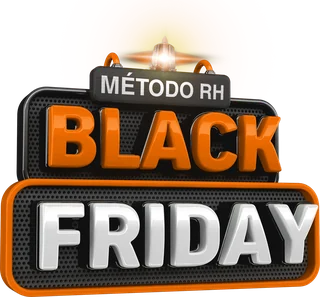
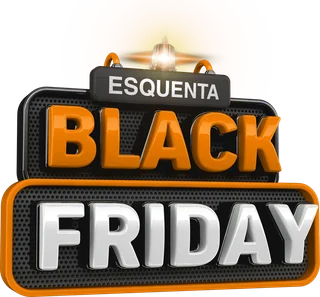
Esquenta Black Friday exclusiva para alunos
- "Black Friday" vira "Esquenta Black Friday" em toda a página; novo selo 3D
  Esquenta recolorido em laranja
- Etiqueta "Exclusiva para alunos" + ticket "Só hoje" (configurável em
  campaign.urgencyTag)
- "O que você leva" unificado com os 5 módulos e bônus; selo da divisa acima
- Selo "+20 materiais exclusivos" sobre as capas; "maior plataforma de RH
  do Brasil" e cursos futuros no bloco do vitalício
- Ajustes de posição do selo no hero (desktop e celular)

Changed region(s): [[0.3125, 0.2424, 0.7188, 0.3333]]

diff --git a/index.html b/index.html
@@ -3,8 +3,8 @@
 <head>
   <meta charset="utf-8">
   <meta name="viewport" content="width=device-width, initial-scale=1, viewport-fit=cover">
-  <title>Black Friday | Método RH Estratégico — Rosemeire Moreira</title>
-  <meta name="description" content="Black Friday com 50% OFF: acesso vitalício à plataforma completa da Solute RH, com o Método RH Estratégico, +50h de aulas, +120 ferramentas e certificado.">
+  <title>Esquenta Black Friday | Método RH Estratégico — Rosemeire Moreira</title>
+  <meta name="description" content="Esquenta Black Friday com 50% OFF: acesso vitalício à plataforma completa da Solute RH, com o Método RH Estratégico, +50h de aulas, +120 ferramentas e certificado.">
   <meta name="theme-color" content="#000000">
 
   <!-- TODO: quando a URL final estiver definida, descomente e ajuste
@@ -14,7 +14,7 @@
   <meta property="og:type" content="website">
   <meta property="og:locale" content="pt_BR">
   <meta property="og:site_name" content="Método RH Estratégico">
-  <meta property="og:title" content="Black Friday | Método RH Estratégico">
+  <meta property="og:title" content="Esquenta Black Friday exclusiva para alunos | Método RH Estratégico">
   <meta property="og:description" content="50% OFF e acesso vitalício à plataforma completa. Nunca mais compre outro curso de RH.">
   <!-- Para Facebook/WhatsApp, troque por URL absoluta após publicar. -->
   <meta property="og:image" content="img/og-image.jpg">
@@ -30,7 +30,7 @@
   <link rel="preconnect" href="https://fonts.googleapis.com">
   <link rel="preconnect" href="https://fonts.gstatic.com" crossorigin>
   <link rel="stylesheet" href="https://fonts.googleapis.com/css2?family=Inter:wght@400;500;600;700&display=swap">
-  <link rel="stylesheet" href="css/styles.css?v=20">
+  <link rel="stylesheet" href="css/styles.css?v=33">
 
   <script>document.documentElement.classList.add('js');</script>
 
@@ -48,7 +48,7 @@
 
   <script defer src="js/config.js?v=2"></script>
   <script defer src="js/tracking.js?v=2"></script>
-  <script defer src="js/offer.js?v=3"></script>
+  <script defer src="js/offer.js?v=4"></script>
   <script defer src="js/checkout.js?v=2"></script>
   <script defer src="js/ui.js?v=4"></script>
 </head>
@@ -76,7 +76,7 @@
      FAIXA DE CAMPANHA (com contador, quando houver data real)
      ======================================================================= -->
 <!-- Só aparece quando campaign.endsAt tiver uma data real (js/config.js) -->
-<div class="campaign-bar" role="region" aria-label="Tempo restante da Black Friday" data-campaign-bar hidden>
+<div class="campaign-bar" role="region" aria-label="Tempo restante da Esquenta Black Friday" data-campaign-bar hidden>
   <p class="countdown" data-countdown>
     <span class="countdown__label">Termina em</span>
     <span class="countdown__time" data-countdown-time></span>
@@ -131,15 +131,15 @@
   </div>
 
   <div class="hero__seal">
-    <img src="img/selo-black-560.webp?v=2" srcset="img/selo-black-320.webp?v=2 320w, img/selo-black-560.webp?v=2 560w, img/selo-black-880.webp?v=2 880w" sizes="(min-width: 960px) clamp(300px, 26vw, 480px), 140px" alt="Método RH Black Friday" width="560" height="519" fetchpriority="high">
+    <img src="img/selo-black-560.webp?v=3" srcset="img/selo-black-320.webp?v=3 320w, img/selo-black-560.webp?v=3 560w, img/selo-black-880.webp?v=3 880w" sizes="(min-width: 960px) clamp(300px, 26vw, 480px), 140px" alt="Esquenta Black Friday" width="560" height="519" fetchpriority="high">
   </div>
 
   <div class="container hero__inner">
-    <p class="hero__tags"><span class="hero__kicker">Black Friday</span><img class="tag-off-img" data-discount-img src="img/selo-50off-240.webp?v=2" srcset="img/selo-50off-240.webp?v=2 240w, img/selo-50off-480.webp?v=2 480w" sizes="160px" alt="50% OFF" width="240" height="129"></p>
+    <p class="hero__tags"><span class="hero__kicker">Exclusiva para alunos</span><span class="tag-today" data-urgency-tag>Só hoje</span></p>
     <h1 id="hero-title" class="hero__title">Saia do operacional e vire o RH que <span class="hl">participa das decisões</span></h1>
     <p class="hero__sub"><strong>Acesso vitalício à plataforma completa</strong> da Solute RH. Você nunca mais vai precisar comprar outro curso de RH.</p>
     <div class="hero__cta">
-      <a class="btn btn--cta btn--xl" href="#oferta" data-cta="hero">Quero aproveitar a Black <svg aria-hidden="true"><use href="#i-arrow"/></svg></a>
+      <a class="btn btn--cta btn--xl" href="#oferta" data-cta="hero">Quero aproveitar o Esquenta <svg aria-hidden="true"><use href="#i-arrow"/></svg></a>
       <p class="micro">+4.000 alunos · Garantia de 15 dias · Acesso vitalício</p>
     </div>
   </div>
@@ -147,7 +147,7 @@
 
 <div class="tapes" aria-hidden="true">
   <div class="tape tape--dark"><div class="tape__track" data-tape><span class="o">ACESSO VITALÍCIO</span> ✦ PLATAFORMA COMPLETA ✦ <span class="o">50% OFF</span> ✦ CURSOS FUTUROS INCLUSOS ✦ </div></div>
-  <div class="tape tape--green"><div class="tape__track tape__track--rev" data-tape>BLACK FRIDAY ✦ 50% OFF ✦ BLACK FRIDAY ✦ 50% OFF ✦ </div></div>
+  <div class="tape tape--green"><div class="tape__track tape__track--rev" data-tape>ESQUENTA BLACK FRIDAY ✦ 50% OFF ✦ ESQUENTA BLACK FRIDAY ✦ 50% OFF ✦ </div></div>
 </div>
 
 <!-- =======================================================================
@@ -179,18 +179,21 @@
 <section class="section lifetime" id="vitalicio" aria-labelledby="vit-title">
   <div class="container lifetime__inner">
     <div class="lifetime__copy">
-      <p class="hero__tags reveal"><span class="hero__kicker">Black Friday</span><img class="tag-off-img" data-discount-img src="img/selo-50off-240.webp?v=2" srcset="img/selo-50off-240.webp?v=2 240w, img/selo-50off-480.webp?v=2 480w" sizes="160px" alt="50% OFF" width="240" height="129"></p>
+      <p class="hero__tags reveal"><span class="hero__kicker">Exclusiva para alunos</span><span class="tag-today" data-urgency-tag>Só hoje</span></p>
       <h2 id="vit-title" class="title reveal">Nunca mais compre <span class="hl">um curso de RH</span></h2>
-      <p class="lifetime__lead reveal">Na Black, você leva a <strong>plataforma completa</strong> com <strong>acesso vitalício</strong>. Pague uma vez e tenha todos os cursos para sempre, <strong>inclusive os próximos que forem gravados</strong>.</p>
+      <p class="lifetime__lead reveal">No Esquenta, você leva a <strong>maior plataforma de RH do Brasil</strong> completa, com <strong>acesso vitalício</strong>. Pague uma vez e tenha todos os cursos para sempre, <strong>inclusive os próximos que forem gravados</strong>.</p>
       <ul class="lifetime__points">
         <li class="reveal"><span class="lifetime__icon">&infin;</span><div><strong>Acesso vitalício</strong><p>Sem mensalidade e sem prazo para terminar.</p></div></li>
         <li class="reveal"><span class="lifetime__icon"><svg aria-hidden="true"><use href="#i-play"/></svg></span><div><strong>Plataforma completa</strong><p>O Método RH Estratégico e todos os cursos da Solute RH.</p></div></li>
         <li class="reveal"><span class="lifetime__icon"><svg aria-hidden="true"><use href="#i-gift"/></svg></span><div><strong>Cursos futuros inclusos</strong><p>Os novos cursos que forem gravados entram no seu acesso, sem pagar nada a mais.</p></div></li>
-        <li class="reveal"><span class="lifetime__icon lifetime__icon--off" data-discount-pct>50%</span><div><strong>Metade do preço</strong><p>Condição exclusiva da Black Friday.</p></div></li>
+        <li class="reveal"><span class="lifetime__icon lifetime__icon--off" data-discount-pct>50%</span><div><strong>Metade do preço</strong><p>Condição exclusiva do Esquenta Black Friday.</p></div></li>
       </ul>
       <a class="btn btn--cta btn--xl reveal" href="#oferta" data-checkout data-cta="vitalicio">Quero acesso vitalício <svg aria-hidden="true"><use href="#i-arrow"/></svg></a>
     </div>
-    <div class="lifetime__covers reveal" role="img" aria-label="Alguns dos cursos inclusos na plataforma"><div class="lifetime__track" data-covers-track><img src="img/cursos/22-240.webp" alt="" width="240" height="360" loading="lazy" decoding="async"><img src="img/cursos/1-240.webp" alt="" width="240" height="360" loading="lazy" decoding="async"><img src="img/cursos/18-240.webp" alt="" width="240" height="360" loading="lazy" decoding="async"><img src="img/cursos/9-240.webp" alt="" width="240" height="360" loading="lazy" decoding="async"><img src="img/cursos/2-240.webp" alt="" width="240" height="360" loading="lazy" decoding="async"><img src="img/cursos/16-240.webp" alt="" width="240" height="360" loading="lazy" decoding="async"><img src="img/cursos/5-240.webp" alt="" width="240" height="360" loading="lazy" decoding="async"><img src="img/cursos/12-240.webp" alt="" width="240" height="360" loading="lazy" decoding="async"><img src="img/cursos/7-240.webp" alt="" width="240" height="360" loading="lazy" decoding="async"><img src="img/cursos/19-240.webp" alt="" width="240" height="360" loading="lazy" decoding="async"><img src="img/cursos/13-240.webp" alt="" width="240" height="360" loading="lazy" decoding="async"><img src="img/cursos/6-240.webp" alt="" width="240" height="360" loading="lazy" decoding="async"><img src="img/cursos/21-240.webp" alt="" width="240" height="360" loading="lazy" decoding="async"><img src="img/cursos/3-240.webp" alt="" width="240" height="360" loading="lazy" decoding="async"><img src="img/cursos/17-240.webp" alt="" width="240" height="360" loading="lazy" decoding="async"><img src="img/cursos/10-240.webp" alt="" width="240" height="360" loading="lazy" decoding="async"><img src="img/cursos/14-240.webp" alt="" width="240" height="360" loading="lazy" decoding="async"><img src="img/cursos/4-240.webp" alt="" width="240" height="360" loading="lazy" decoding="async"><img src="img/cursos/11-240.webp" alt="" width="240" height="360" loading="lazy" decoding="async"><img src="img/cursos/20-240.webp" alt="" width="240" height="360" loading="lazy" decoding="async"><img src="img/cursos/8-240.webp" alt="" width="240" height="360" loading="lazy" decoding="async"><img src="img/cursos/15-240.webp" alt="" width="240" height="360" loading="lazy" decoding="async"></div></div>
+    <div class="lifetime__media reveal">
+      <p class="covers-badge"><span>São mais de</span><strong>+20</strong><span>materiais exclusivos</span></p>
+    <div class="lifetime__covers" role="img" aria-label="Alguns dos cursos inclusos na plataforma"><div class="lifetime__track" data-covers-track><img src="img/cursos/22-240.webp" alt="" width="240" height="360" loading="lazy" decoding="async"><img src="img/cursos/1-240.webp" alt="" width="240" height="360" loading="lazy" decoding="async"><img src="img/cursos/18-240.webp" alt="" width="240" height="360" loading="lazy" decoding="async"><img src="img/cursos/9-240.webp" alt="" width="240" height="360" loading="lazy" decoding="async"><img src="img/cursos/2-240.webp" alt="" width="240" height="360" loading="lazy" decoding="async"><img src="img/cursos/16-240.webp" alt="" width="240" height="360" loading="lazy" decoding="async"><img src="img/cursos/5-240.webp" alt="" width="240" height="360" loading="lazy" decoding="async"><img src="img/cursos/12-240.webp" alt="" width="240" height="360" loading="lazy" decoding="async"><img src="img/cursos/7-240.webp" alt="" width="240" height="360" loading="lazy" decoding="async"><img src="img/cursos/19-240.webp" alt="" width="240" height="360" loading="lazy" decoding="async"><img src="img/cursos/13-240.webp" alt="" width="240" height="360" loading="lazy" decoding="async"><img src="img/cursos/6-240.webp" alt="" width="240" height="360" loading="lazy" decoding="async"><img src="img/cursos/21-240.webp" alt="" width="240" height="360" loading="lazy" decoding="async"><img src="img/cursos/3-240.webp" alt="" width="240" height="360" loading="lazy" decoding="async"><img src="img/cursos/17-240.webp" alt="" width="240" height="360" loading="lazy" decoding="async"><img src="img/cursos/10-240.webp" alt="" width="240" height="360" loading="lazy" decoding="async"><img src="img/cursos/14-240.webp" alt="" width="240" height="360" loading="lazy" decoding="async"><img src="img/cursos/4-240.webp" alt="" width="240" height="360" loading="lazy" decoding="async"><img src="img/cursos/11-240.webp" alt="" width="240" height="360" loading="lazy" decoding="async"><img src="img/cursos/20-240.webp" alt="" width="240" height="360" loading="lazy" decoding="async"><img src="img/cursos/8-240.webp" alt="" width="240" height="360" loading="lazy" decoding="async"><img src="img/cursos/15-240.webp" alt="" width="240" height="360" loading="lazy" decoding="async"></div></div>
+    </div>
   </div>
 </section>
 
@@ -211,33 +214,19 @@
 </section>
 
 <!-- =======================================================================
-     O QUE VOCÊ LEVA
-     ======================================================================= -->
-<section class="section section--alt" id="recebe" aria-labelledby="recebe-title">
-  <div class="container">
-    <h2 id="recebe-title" class="title reveal">O que você <span class="hl">leva</span></h2>
-    <ul class="perks">
-      <li class="perk perk--wide reveal"><strong>&infin;</strong><span><b>Acesso vitalício</b> à plataforma completa. Pague uma vez e estude para sempre.</span></li>
-      <li class="perk reveal"><strong>5</strong><span>módulos do básico ao avançado</span></li>
-      <li class="perk reveal"><strong>+50h</strong><span>de aulas gravadas no seu ritmo</span></li>
-      <li class="perk reveal"><strong>+120</strong><span>ferramentas prontas para aplicar</span></li>
-      <li class="perk reveal"><svg aria-hidden="true"><use href="#i-users"/></svg><span>Mentoria mensal em grupo com estudo de caso</span></li>
-      <li class="perk reveal"><svg aria-hidden="true"><use href="#i-bolt"/></svg><span>Workshops de Dados, IA e Empreendedorismo</span></li>
-      <li class="perk reveal"><svg aria-hidden="true"><use href="#i-cert"/></svg><span>Certificado de extensão universitária</span></li>
-    </ul>
-  </div>
-</section>
-
-<!-- =======================================================================
      MÓDULOS (a partir daqui o CTA fixo aparece)
      ======================================================================= -->
 <div class="seal-divider" aria-hidden="true">
-  <img class="reveal" src="img/selo-black-320.webp?v=2" srcset="img/selo-black-320.webp?v=2 320w, img/selo-black-560.webp?v=2 560w" sizes="(min-width: 760px) 260px, 190px" alt="" width="320" height="297" loading="lazy" decoding="async">
+  <img class="reveal" src="img/selo-black-320.webp?v=3" srcset="img/selo-black-320.webp?v=3 320w, img/selo-black-560.webp?v=3 560w" sizes="(min-width: 760px) 260px, 190px" alt="" width="320" height="297" loading="lazy" decoding="async">
 </div>
 
-<section class="section" id="modulos" aria-labelledby="modulos-title" data-sticky-start>
+<section class="section section--alt" id="modulos" aria-labelledby="modulos-title" data-sticky-start>
   <div class="container">
-    <h2 id="modulos-title" class="title reveal">Os <span class="hl">5 módulos</span></h2>
+    <h2 id="modulos-title" class="title reveal">O que você <span class="hl">leva</span></h2>
+    <div class="leva reveal">
+      <p class="leva__head"><strong class="leva__inf">&infin;</strong><span><b>Acesso vitalício</b> aos 5 módulos e aos bônus inclusos. Pague uma vez e estude para sempre.</span></p>
+    </div>
+    <h3 class="subtitle reveal">Os <span class="hl">5 módulos</span></h3>
     <ol class="modules">
       <li class="module reveal">
         <img src="img/modulo-1-320.webp?v=2" srcset="img/modulo-1-320.webp?v=2 320w, img/modulo-1-600.webp?v=2 600w" sizes="(min-width: 1040px) 210px, (min-width: 640px) 30vw, 70vw" alt="" width="320" height="320" loading="lazy" decoding="async">
@@ -361,7 +350,7 @@
      ======================================================================= -->
 <section class="section" id="como-garantir" aria-labelledby="passos-title">
   <div class="container">
-    <h2 id="passos-title" class="title reveal">Garanta sua Black em <span class="hl">3 passos</span></h2>
+    <h2 id="passos-title" class="title reveal">Garanta seu acesso em <span class="hl">3 passos</span></h2>
     <ol class="steps">
       <li class="step reveal">
         <span class="step__n">1</span>
@@ -403,7 +392,7 @@
 <section class="section offer-section" id="oferta" aria-labelledby="oferta-title">
   <div class="container">
     <div class="offer reveal">
-      <p class="offer__badge" data-offer-badge hidden>Black Friday · <span data-discount>50% OFF</span></p>
+      <p class="offer__badge" data-offer-badge hidden>Esquenta Black Friday exclusiva para alunos</p>
       <h2 id="oferta-title" class="offer__title">Método RH <span class="hl">Estratégico</span></h2>
 
       <p class="offer__lifetime"><strong>Acesso vitalício</strong> à plataforma completa da Solute RH</p>
@@ -484,7 +473,7 @@
       </details>
       <details class="faq__item">
         <summary>Por quanto tempo terei acesso?<svg aria-hidden="true"><use href="#i-plus"/></svg></summary>
-        <p>Para sempre. Na Black Friday o acesso é vitalício: você paga uma vez e estuda no seu ritmo, quando puder e quantas vezes quiser.</p>
+        <p>Para sempre. No Esquenta Black Friday o acesso é vitalício: você paga uma vez e estuda no seu ritmo, quando puder e quantas vezes quiser.</p>
       </details>
       <details class="faq__item">
         <summary>O que é a plataforma completa?<svg aria-hidden="true"><use href="#i-plus"/></svg></summary>
@@ -527,9 +516,9 @@
      ======================================================================= -->
 <section class="final" aria-labelledby="final-title">
   <div class="container final__inner reveal">
-    <img class="final__seal" src="img/selo-black-560.webp?v=2" srcset="img/selo-black-320.webp?v=2 320w, img/selo-black-560.webp?v=2 560w" sizes="(min-width: 760px) 300px, 220px" alt="Método RH Black Friday" width="560" height="519" loading="lazy" decoding="async">
+    <img class="final__seal" src="img/selo-black-560.webp?v=3" srcset="img/selo-black-320.webp?v=3 320w, img/selo-black-560.webp?v=3 560w" sizes="(min-width: 760px) 300px, 220px" alt="Esquenta Black Friday" width="560" height="519" loading="lazy" decoding="async">
     <h2 id="final-title" class="final__title">Acesso vitalício com <span class="hl" data-discount>50% OFF</span></h2>
-    <p class="final__sub">A plataforma completa de RH, para sempre. Nunca mais compre outro curso de RH.</p>
+    <p class="final__sub">Esquenta Black Friday exclusiva para alunos. A plataforma completa de RH, para sempre. Nunca mais compre outro curso de RH.</p>
     <p class="final__price" data-price-line>12x de R$ 212,66 ou R$ 1.997,00 à vista</p>
     <a class="btn btn--cta btn--xl" href="#oferta" data-checkout data-cta="final">Quero meu acesso agora <svg aria-hidden="true"><use href="#i-arrow"/></svg></a>
   </div>
@@ -539,7 +528,7 @@
 
 <footer class="site-footer">
   <div class="tapes tapes--footer" aria-hidden="true">
-    <div class="tape tape--green"><div class="tape__track" data-tape>BLACK FRIDAY ✦ BLACK FRIDAY ✦ BLACK FRIDAY ✦ BLACK FRIDAY ✦ </div></div>
+    <div class="tape tape--green"><div class="tape__track" data-tape>ESQUENTA BLACK FRIDAY ✦ ESQUENTA BLACK FRIDAY ✦ ESQUENTA BLACK FRIDAY ✦ ESQUENTA BLACK FRIDAY ✦ </div></div>
   </div>
   <div class="container site-footer__inner">
     <img class="site-footer__logo" src="img/logo-metodo-branco-240.webp" srcset="img/logo-metodo-branco-240.webp 240w, img/logo-metodo-branco-480.webp 480w" sizes="100px" alt="Método RH Estratégico" width="240" height="217" loading="lazy">
@@ -551,7 +540,7 @@
 <!-- CTA fixo: aparece a partir dos módulos -->
 <div class="sticky-cta" data-sticky-cta aria-hidden="true">
   <div class="sticky-cta__price">
-    <span data-sticky-label>Black · <span data-discount>50% OFF</span></span>
+    <span data-sticky-label>Esquenta · <span data-discount>50% OFF</span></span>
     <strong data-price-short>12x de R$ 212,66</strong>
   </div>
   <a class="btn btn--cta" href="#oferta" data-checkout data-cta="sticky" tabindex="-1">Quero agora <svg aria-hidden="true"><use href="#i-arrow"/></svg></a>

diff --git a/css/styles.css b/css/styles.css
@@ -757,7 +757,7 @@ body.has-sticky-cta .site-footer { padding-bottom: calc(110px + env(safe-area-in
 @media (min-width: 760px) { .final__seal { width: 300px; } }
 @media (min-width: 960px) {
   .hero__seal {
-    top: 50%; right: 14vw; transform: translateY(-66%);
+    top: 50%; right: 14vw; transform: translateY(-78%);
     width: clamp(300px, 26vw, 480px);
   }
 }
@@ -926,3 +926,147 @@ body.has-sticky-cta .site-footer { padding-bottom: calc(110px + env(safe-area-in
   .hero__seal { margin-bottom: 0; }
   .hero .hero__tags { position: relative; z-index: 2; margin-top: -2px; }
 }
+
+/* Etiqueta "Só hoje" em formato de ticket (mesmo visual do selo 50% OFF) */
+.tag-today {
+  position: relative; display: inline-flex; align-items: center;
+  margin-left: 26px; /* espaço para a argola */
+  padding: 10px 18px 8px 34px;
+  font-family: var(--font-display); font-size: clamp(1.6rem, 1.1rem + 1.8vw, 2.3rem);
+  letter-spacing: .03em; text-transform: uppercase; line-height: 1; font-style: italic;
+  color: #fff;
+  text-shadow: 0 1px 0 #c9cfe6, 0 2px 0 #9aa3c7, 0 3px 0 #6c76a6, 0 6px 10px rgba(0, 0, 0, .55);
+  transform: rotate(-6deg);
+  isolation: isolate;
+  filter: drop-shadow(0 10px 14px rgba(0, 0, 0, .55));
+  animation: today-glow 2.2s ease-in-out infinite;
+}
+/* placa azul com ponta chanfrada à esquerda e furo */
+.tag-today::before {
+  content: ''; position: absolute; inset: 0; z-index: -1;
+  background:
+    radial-gradient(circle at 15px 50%, #000 0 5px, #c8ccd8 5.5px 7px, transparent 7.5px),
+    linear-gradient(160deg, #5a66ff 0%, #2f3bea 45%, #1a22b8 100%);
+  clip-path: polygon(14px 0, 100% 0, 100% 100%, 14px 100%, 0 70%, 0 30%);
+  border-radius: 6px;
+  box-shadow: inset 0 2px 0 rgba(255, 255, 255, .35), inset 0 -3px 0 rgba(0, 0, 40, .45);
+}
+/* argola metálica passando pelo furo */
+.tag-today::after {
+  content: ''; position: absolute; z-index: -2;
+  left: -24px; top: 50%; width: 42px; height: 18px; translate: 0 -50%;
+  border: 3px solid #d7dbe6; border-radius: 999px;
+  box-shadow: 0 0 0 1px rgba(0, 0, 0, .35), inset 0 0 0 1px rgba(0, 0, 0, .25);
+  rotate: -8deg;
+}
+@keyframes today-glow {
+  0%, 100% { filter: drop-shadow(0 10px 14px rgba(0, 0, 0, .55)) drop-shadow(0 0 8px rgba(58, 70, 255, .35)); }
+  50%      { filter: drop-shadow(0 10px 14px rgba(0, 0, 0, .55)) drop-shadow(0 0 20px rgba(90, 110, 255, .8)); }
+}
+@media (max-width: 959px) { .tag-today { font-size: 1.35rem; padding: 8px 14px 6px 28px; margin-left: 22px; } }
+@media (prefers-reduced-motion: reduce) { .tag-today { animation: none; } }
+
+/* Selo da oferta mais longo: quebra linha no celular em vez de vazar */
+@media (max-width: 559px) {
+  .offer__badge { white-space: normal; width: max-content; max-width: calc(100% - 24px); text-align: center; line-height: 1.1; font-size: 1rem; }
+}
+
+/* "O que você leva": vitalício + 5 módulos + bônus */
+@media (min-width: 900px) { .perks--3 { grid-template-columns: repeat(2, minmax(0, 1fr)); } }
+
+/* Contador de materiais acima das capas */
+.lifetime__media { min-width: 0; }
+.covers-count {
+  display: block;
+  margin: 0 0 14px; text-align: center;
+  font-family: var(--font-display); text-transform: uppercase; letter-spacing: .03em;
+  font-size: clamp(1.4rem, 1rem + 1.6vw, 2rem); line-height: 1.1; color: var(--text);
+}
+.covers-count strong { font-weight: 400; color: var(--bf); text-shadow: 0 0 .35em rgba(247, 147, 30, .5); }
+@media (min-width: 960px) { .covers-count { margin-bottom: 22px; } }
+
+/* "O que você leva": 5 módulos + 3 bônus num card só */
+.perks--3 { grid-template-columns: 1fr !important; }
+.perk--combo { flex-direction: row; align-items: center; gap: 14px; }
+.perk--combo > div { flex: 1; display: flex; flex-direction: column; gap: 6px; min-width: 0; }
+.perk__plus { font-family: var(--font-display); font-size: 2.4rem; line-height: 1; color: var(--bf); flex: none; }
+@media (max-width: 459px) { .perk--combo { gap: 8px; } .perk__plus { font-size: 1.8rem; } }
+
+/* Selo "+20 materiais exclusivos" sobre as capas */
+.lifetime__media { position: relative; padding-top: 34px; }
+.covers-badge {
+  position: absolute; z-index: 3; top: 0; left: 6px;
+  width: 132px; aspect-ratio: 1; margin: 0;
+  display: flex; flex-direction: column; align-items: center; justify-content: center; text-align: center;
+  border-radius: 50%; color: var(--ink);
+  background: radial-gradient(circle at 35% 30%, #ffc27a, var(--bf) 55%, #c96a06);
+  border: 3px dashed rgba(0, 0, 0, .35); outline: 4px solid var(--bf); outline-offset: 3px;
+  box-shadow: 0 14px 30px rgba(0, 0, 0, .6), 0 0 34px rgba(247, 147, 30, .55);
+  transform: rotate(-12deg);
+  font-family: var(--font-display); text-transform: uppercase; line-height: 1;
+  animation: badge-spin 6s ease-in-out infinite;
+}
+.covers-badge span { font-size: .78rem; letter-spacing: .04em; max-width: 92px; }
+.covers-badge strong { font-weight: 400; font-size: 2.6rem; margin: 2px 0; }
+@keyframes badge-spin { 0%, 100% { rotate: 0deg; scale: 1; } 50% { rotate: 6deg; scale: 1.05; } }
+@media (min-width: 960px) {
+  .lifetime__media { padding-top: 0; }
+  .covers-badge { top: -26px; left: -26px; width: 156px; }
+  .covers-badge span { font-size: .9rem; max-width: 110px; }
+  .covers-badge strong { font-size: 3.1rem; }
+}
+@media (prefers-reduced-motion: reduce) { .covers-badge { animation: none; } }
+@media (max-width: 959px) { .hero { padding-top: 4px; } .hero__seal { margin-top: -6px; } }
+
+/* "O que você leva": card único (vitalício + 5 módulos + 3 bônus) */
+.leva {
+  border: 1px solid var(--bf); border-radius: var(--radius-lg); overflow: hidden;
+  background: linear-gradient(120deg, rgba(247, 147, 30, .18), rgba(247, 147, 30, .03) 55%), var(--surface);
+  box-shadow: 0 0 50px -14px rgba(247, 147, 30, .45);
+  max-width: 980px;
+}
+.leva__head { display: flex; align-items: center; gap: 16px; margin: 0; padding: 20px 22px; border-bottom: 1px dashed rgba(247, 147, 30, .4); font-size: 1.05rem; line-height: 1.4; }
+.leva__inf { font-family: var(--font-display); font-weight: 400; font-size: 3.2rem; line-height: 1; color: var(--bf); text-shadow: 0 0 .35em rgba(247, 147, 30, .55); flex: none; }
+.leva__head b { color: var(--bf); text-transform: uppercase; }
+.leva__row { display: flex; align-items: center; gap: 14px; padding: 20px 22px; }
+.leva__row > div { flex: 1; min-width: 0; display: flex; flex-direction: column; gap: 6px; color: var(--muted); font-size: .95rem; line-height: 1.4; }
+.leva__row strong { font-family: var(--font-display); font-weight: 400; font-size: 3rem; line-height: 1; color: var(--bf); }
+.leva__plus { font-family: var(--font-display); font-size: 2.4rem; color: var(--text); flex: none; }
+@media (max-width: 459px) {
+  .leva__head { padding: 16px; gap: 12px; font-size: .95rem; }
+  .leva__inf { font-size: 2.6rem; }
+  .leva__row { padding: 16px; gap: 8px; }
+  .leva__row > div { font-size: .85rem; }
+  .leva__row strong { font-size: 2.4rem; }
+  .leva__plus { font-size: 1.8rem; }
+}
+
+/* Selo da divisa mais alto (fica sobre o fim do bloco "O que você leva") */
+.seal-divider img { transform: translateY(-78%); }
+.js .seal-divider img.reveal { transform: translateY(-78%) scale(.85); }
+.js .seal-divider img.reveal.is-visible { transform: translateY(-78%) scale(1); }
+.seal-divider::before { transform: translate(-50%, -78%); }
+.seal-divider + .section { padding-top: calc(var(--section-y) + 20px) !important; }
+
+/* Bloco único: "O que você leva" + 5 módulos (+ bônus logo em seguida) */
+.subtitle {
+  font-family: var(--font-display); text-transform: uppercase; font-weight: 400;
+  font-size: clamp(1.8rem, 1.3rem + 2.2vw, 2.8rem); line-height: 1.1;
+  margin: clamp(36px, 5vw, 56px) 0 22px;
+}
+.subtitle .hl { text-shadow: 0 0 .35em rgba(247, 147, 30, .45); }
+/* seção anterior ganha espaço embaixo para o selo da divisa (metade em cada bloco) */
+#identificacao { padding-bottom: calc(var(--section-y) + 70px); }
+#modulos { padding-bottom: 24px; }
+#bonus { padding-top: 24px; background: #0b0b0b; }
+#bonus::before { display: none; }
+#bonus .title { font-size: clamp(1.8rem, 1.3rem + 2.2vw, 2.8rem); margin-top: clamp(24px, 4vw, 40px); }
+.leva__head { border-bottom: 0; }
+/* selo da divisa: um pouco mais baixo (mais dentro do bloco "O que você leva") */
+.seal-divider img { transform: translateY(-38%); }
+.js .seal-divider img.reveal { transform: translateY(-38%) scale(.85); }
+.js .seal-divider img.reveal.is-visible { transform: translateY(-38%) scale(1); }
+.seal-divider::before { transform: translate(-50%, -38%); }
+#identificacao { padding-bottom: calc(var(--section-y) + 30px); }
+.seal-divider + .section { padding-top: calc(var(--section-y) + 110px) !important; }
+@media (max-width: 759px) { .seal-divider + .section { padding-top: calc(var(--section-y) + 80px) !important; } }

diff --git a/js/offer.js b/js/offer.js
@@ -135,6 +135,14 @@
     tick();
   }
 
+  /* Etiqueta de urgência ("Só hoje") ----------------------------------- */
+  function renderUrgencyTag() {
+    var txt = campaign.urgencyTag;
+    each('[data-urgency-tag]', function (el) {
+      if (txt) el.textContent = txt; else el.hidden = true;
+    });
+  }
+
   /* Aviso de prévia --------------------------------------------------------
      Lista o que ainda falta configurar. Aparece só em ambiente local ou com
      ?preview=1 na URL; nunca para o visitante comum. */
@@ -147,7 +155,7 @@
     if (isBF && offer.priceConfirmed === false) pending.push('Preço da Black (R$ ' + offer.cashPrice + ') ainda não confirmado.');
     if (!(offer.installments > 1)) pending.push('Parcelamento da Black não definido. A página mostra só o valor à vista.');
     if (!campaign.endsAt) pending.push('Data de encerramento não definida. A faixa com contador está oculta.');
-    if (/N103364259K\?off=2j6xzmn0/.test((C.checkout || {}).url || '')) pending.push('O checkout ainda é o link atual do site, não o da Black Friday.');
+    if (/N103364259K\?off=2j6xzmn0/.test((C.checkout || {}).url || '')) pending.push('O checkout ainda é o link atual do site, não o do Esquenta Black Friday.');
     if (!pending.length) return;
 
     var el = document.createElement('aside');
@@ -163,6 +171,7 @@
   function init() {
     renderPrice();
     renderCountdown();
+    renderUrgencyTag();
     renderPreviewNotice();
   }
 

diff --git a/js/config.js b/js/config.js
@@ -20,6 +20,11 @@ window.RH_CONFIG = {
     // Enquanto for null, a faixa com o contador regressivo NÃO aparece.
     // Exemplo: '2026-11-30T23:59:59-03:00'
     endsAt: null,
+
+    // Etiqueta de urgência ao lado de "BLACK FRIDAY" (hero e bloco do vitalício).
+    // Use somente se for verdade no dia em que a página estiver no ar.
+    // null esconde a etiqueta.
+    urgencyTag: 'Só hoje',
   },
 
   /* ----------------------------------------------------------------------
